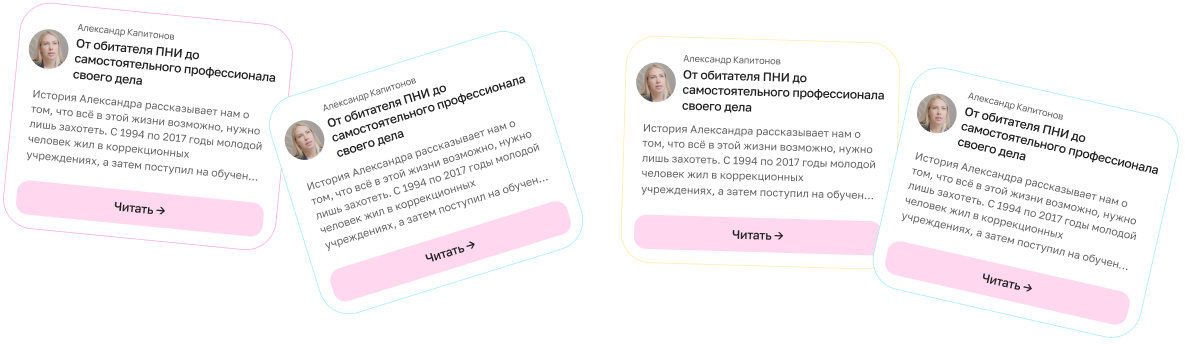
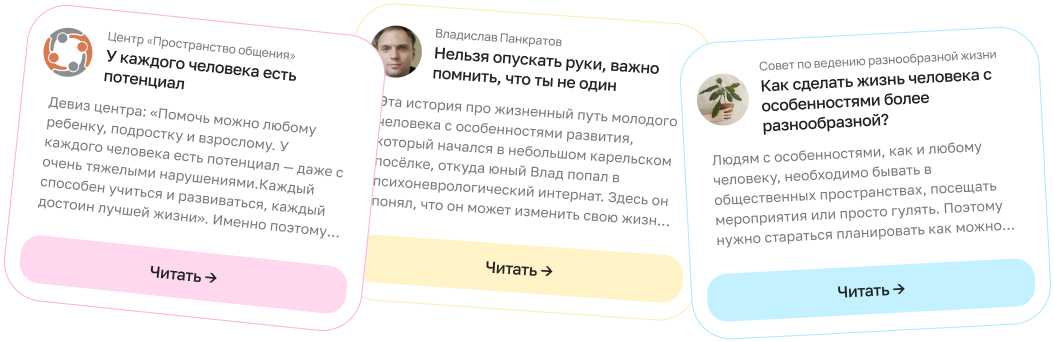
fix: main page videos

diff --git a/src/components/mainPageVideos/mainPageVideos.module.scss b/src/components/mainPageVideos/mainPageVideos.module.scss
@@ -2,25 +2,25 @@
 
 .videos_main_wrapper {
   width: 100%;
-  height: 500px;
+  height: 560px;
   position: relative;
   margin-top: 20px;
 
-  background: url("./Group 1.png") no-repeat ;
-  background-size: 100%;
-
+  background: url("./Group 1.png") no-repeat top center;
+  background-size: 90%;
   @include laptop {
-    height: 44.64vw;
+    height: 50vw;
   }
   @include mobile {
-    background: url("./Group 2.png") no-repeat center center;
+    background: url("./Group 2.png") no-repeat top center;
     background-position-y: 5vw;
     height: 90vw;
-    width: 100vw;
-    margin-top: 0;
+    border: 1px red solid;
+    width: 100%;
+    margin-top: -10vw;
     margin-bottom: 60px;
-    background-size: 100vw;
-    margin-left: -10vw;
+    background-size: 100%;
+    //margin-left: -10vw;
   }
   image {
     position: absolute;
@@ -33,34 +33,39 @@
     &_0 {
       display: block;
       position: absolute;
-      transform: rotate(-16.844deg);
-      top: 10%;
+      transform: rotate(-12deg);
+      left: 5%;
+      top: 15%;
       @include mobile {
-        scale: 0.7;
+        transform: rotate(-16.844deg);
+        scale: 0.65;
         top: 5%;
-        left: -35%;
+        left: -50%;
       }
     }
     &_1 {
       display: block;
       position: absolute;
-      transform:translate(-50%, -50%) rotate(15deg) ;
-      top:40%;
+      transform:translate(-50%, -50%) rotate(-2.736deg) ;
+      top:52%;
       left:50%;
       @include mobile {
-        left: 45%;
-        scale: 0.7;
+        transform: translate(-50%, -50%) rotate(15deg) ;
+        top: 35%;
+        left: 35%;
+        scale: 0.65;
       }
     }
     &_2 {
       display: block;
       position: absolute;
-      transform: rotate(-16.633deg);
-      top: 10%;
-      right: 0;
+      transform: rotate(10deg);
+      top: 20%;
+      right: 4%;
       @include mobile {
-        scale: 0.7;
-        top: -2%;
+        transform: rotate(-16.633deg);
+        scale: 0.65;
+        top: 5%;
         right: -50%;
       }
     }

diff --git a/src/components/cardVideo/CardVideo.js b/src/components/cardVideo/CardVideo.js
@@ -8,7 +8,7 @@ import {Skeleton} from "@mui/material";
 const CardVideo = ({Category, tags, title, url, urlShare, loaded}) => {
   const [colorVersion, setColorVersion] = useContext(colorContext)
   const [sizeVersion, setSizeVersion] = useContext(sizeContext)
-  const [titleShare, setTitleShare] = useState('Поделиться')
+  const [titleShare, setTitleShare] = useState('Поделитесь')
   let tag = [];
 
   if (tags) {
@@ -18,7 +18,7 @@ const CardVideo = ({Category, tags, title, url, urlShare, loaded}) => {
     navigator.clipboard.writeText(urlShare);
     setTitleShare('Ссылка \n\n скопирована')
     setTimeout(() => {
-      setTitleShare('Поделиться')
+      setTitleShare('Поделитесь')
     }, 1000);
   }
   return (
